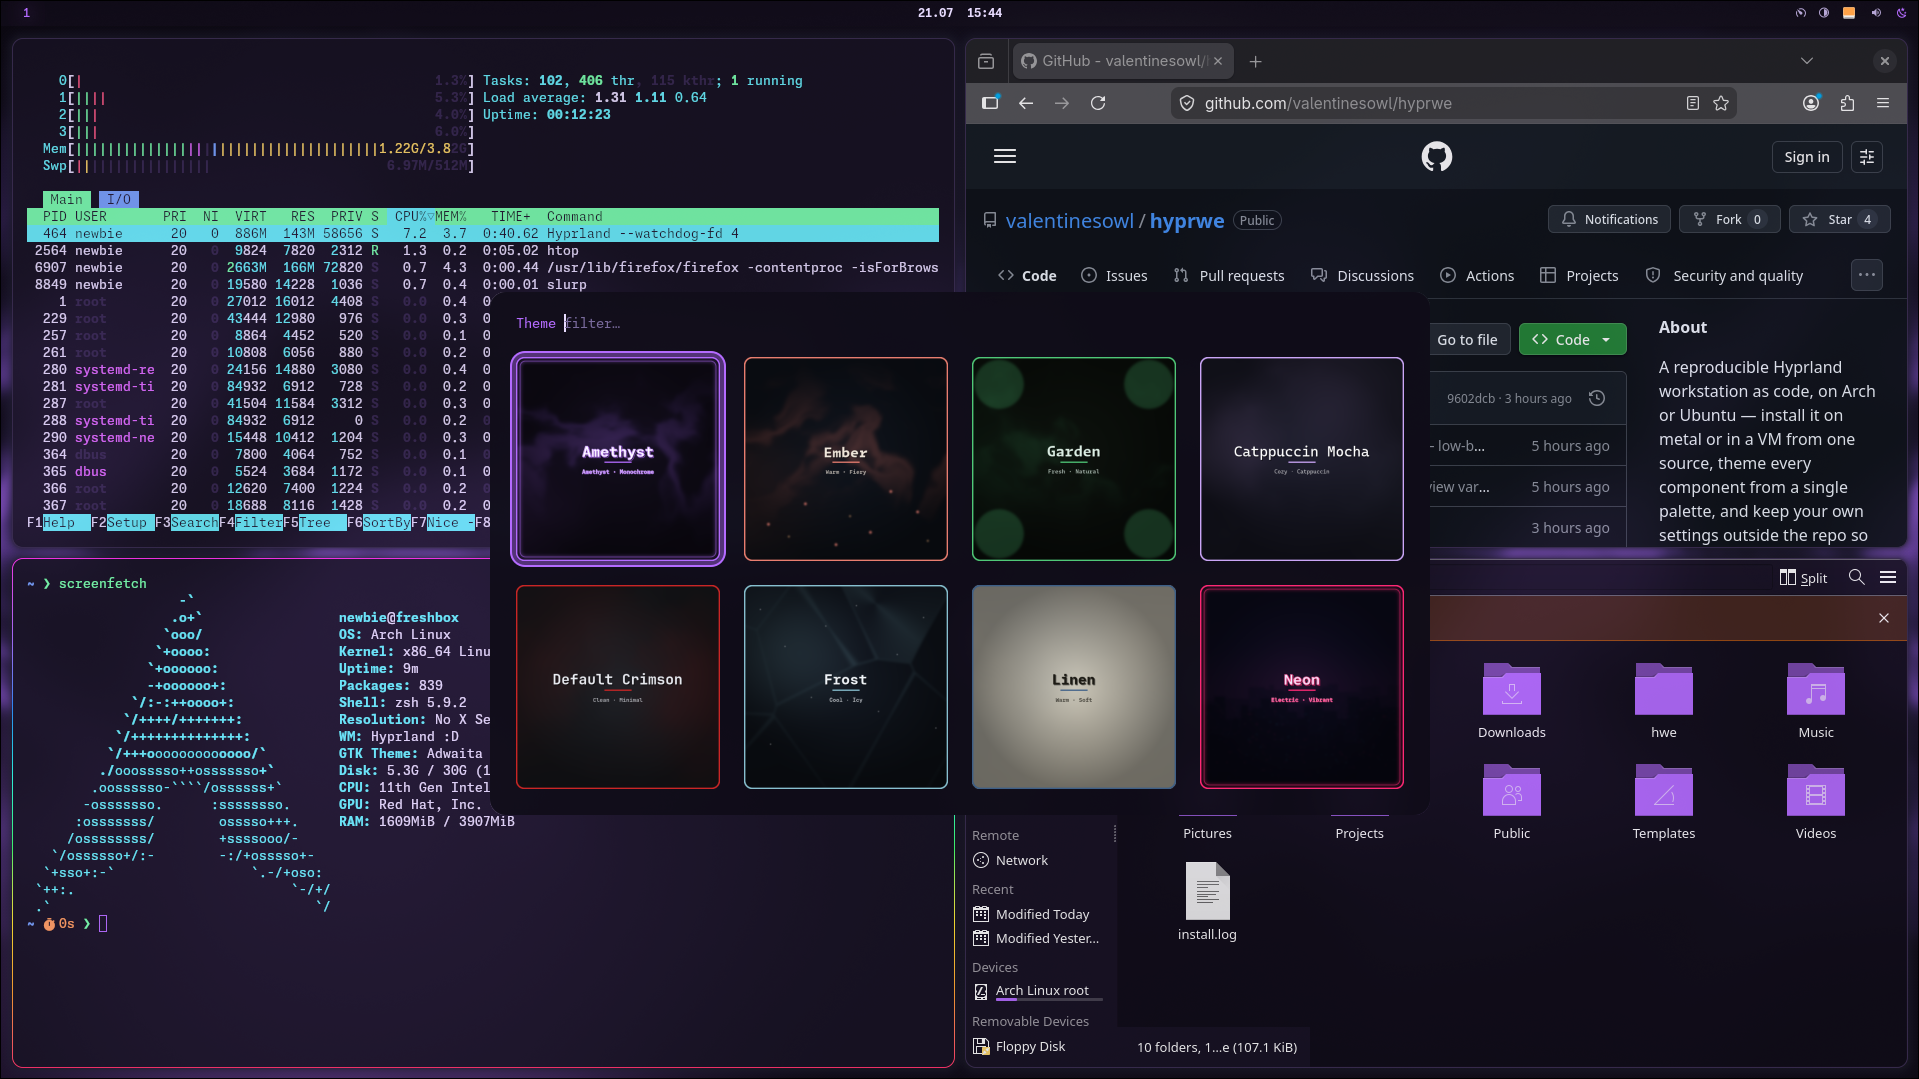
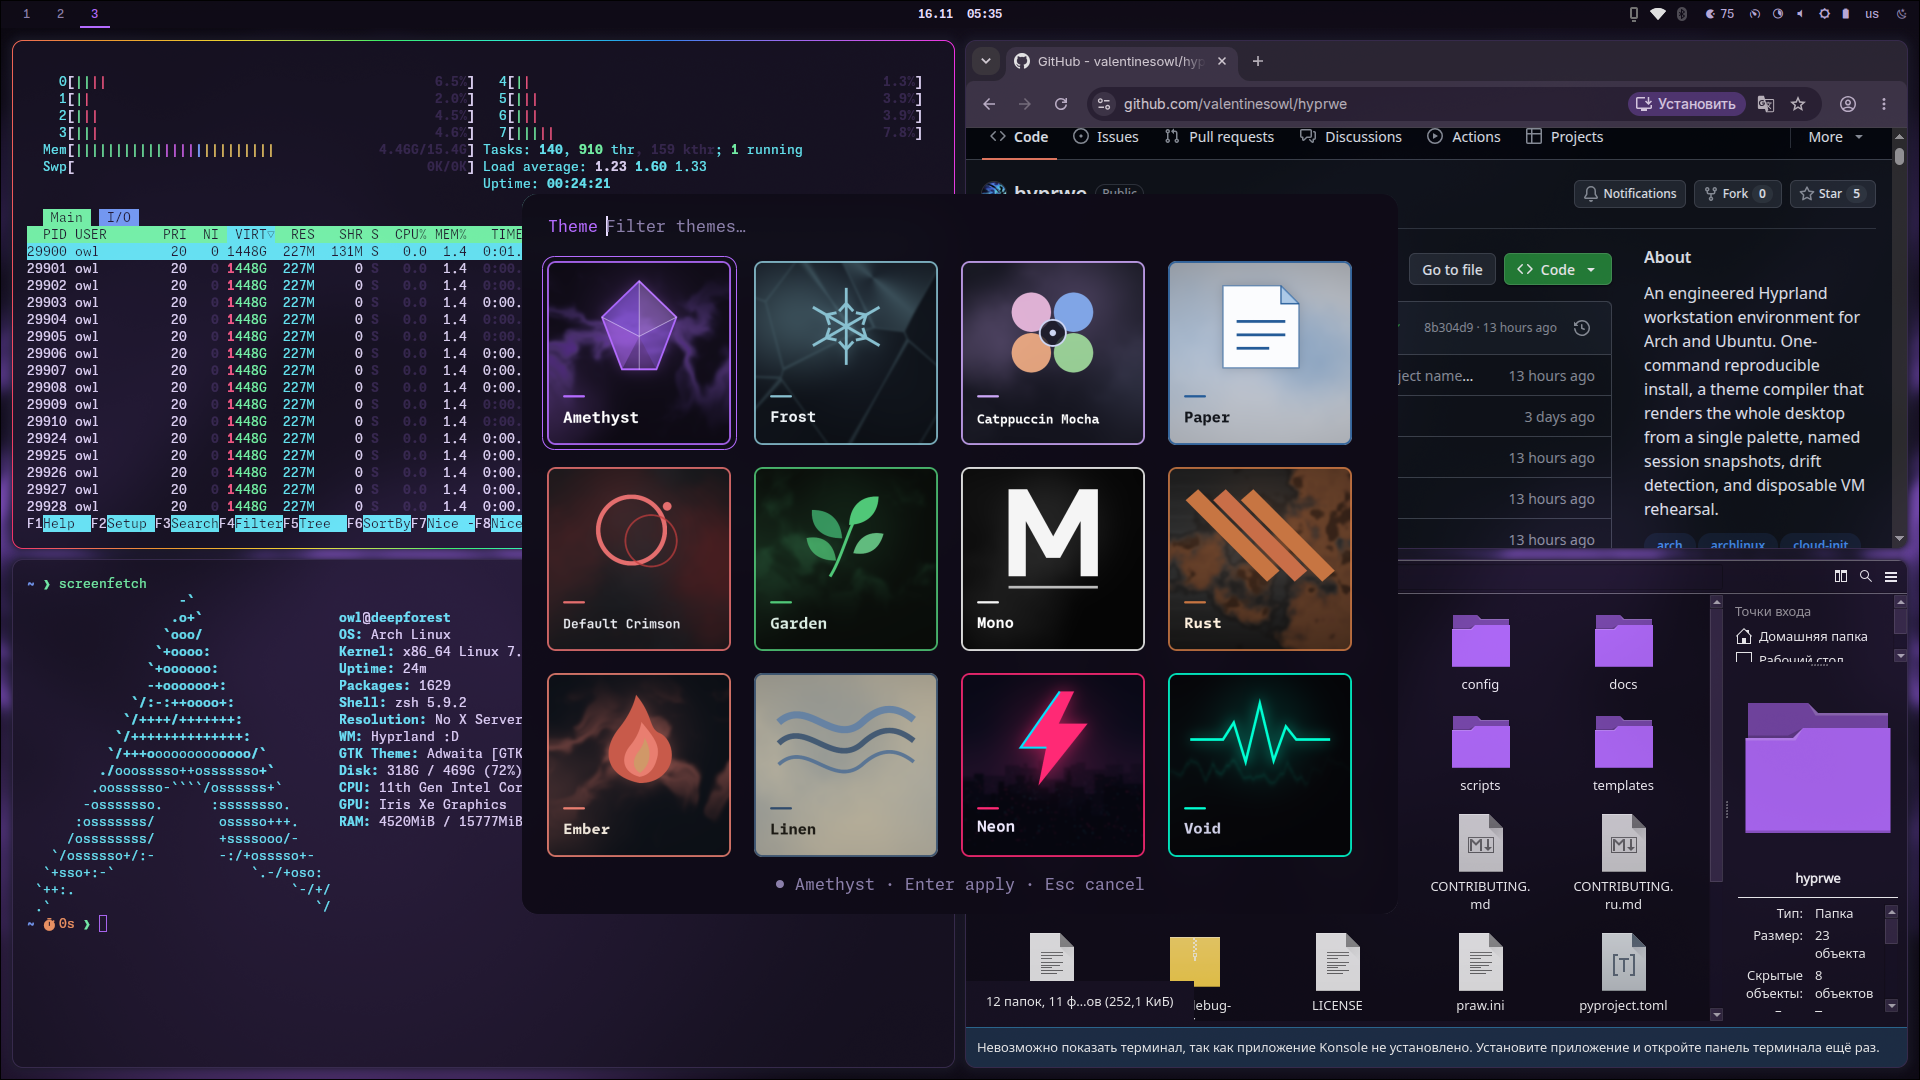
Release 2.1.1

diff --git a/CHANGELOG.md b/CHANGELOG.md
@@ -9,6 +9,28 @@ the three sources cannot drift apart.
 
 ## [Unreleased]
 
+## [2.1.1] — 2026-11-16
+
+### Changed
+
+- **Public branding consistently uses hyprwe.** GitHub release titles and the social preview
+  use the project's public name, and the README hero and social card show the current desktop
+  and theme picker.
+
+### Fixed
+
+- **Fresh Arch VMs fully upgrade the base image before installing bootstrap packages.**
+  Refreshing package databases and selectively installing packages onto an old snapshot could
+  pull OpenSSL 4 beside libraries built for OpenSSL 3, failing cloud-init before HWE cloned or
+  installed the project. Ubuntu keeps its existing cloud-init upgrade path.
+
+### Verification
+
+- Clean Arch x86_64 deployment verified end-to-end through `hwe vm rebuild --uncommitted`:
+  cloud-init completes without errors, no systemd units fail, `hwe doctor` reports no drift,
+  and Hyprland 0.57.2 starts with its monitor, Waybar and Mako after the provisioning reboot.
+- The full `just check` suite passes: 961 Python tests, 303 Bats tests and all linters.
+
 ## [2.1.0] — 2026-11-15
 
 ### Added
@@ -681,7 +703,8 @@ to it only ship in 2.0.0.
   that environment's uninstaller. If the login screen looks foreign after
   `hwe theme sddm`, look at what is in that directory.
 
-[Unreleased]: https://github.com/valentinesowl/hyprwe/compare/v2.1.0...HEAD
+[Unreleased]: https://github.com/valentinesowl/hyprwe/compare/v2.1.1...HEAD
+[2.1.1]: https://github.com/valentinesowl/hyprwe/releases/tag/v2.1.1
 [2.1.0]: https://github.com/valentinesowl/hyprwe/releases/tag/v2.1.0
 [2.0.5]: https://github.com/valentinesowl/hyprwe/releases/tag/v2.0.5
 [2.0.4]: https://github.com/valentinesowl/hyprwe/releases/tag/v2.0.4

diff --git a/README.ru.md b/README.ru.md
@@ -6,7 +6,7 @@
 [![Arch Linux](https://img.shields.io/badge/Arch_Linux-1793D1?logo=archlinux&logoColor=white)](https://archlinux.org)
 [![Ubuntu](https://img.shields.io/badge/Ubuntu_27.04_experimental-E95420?logo=ubuntu&logoColor=white)](https://ubuntu.com)
 [![Hyprland](https://img.shields.io/badge/Hyprland-58E1FF?logo=hyprland&logoColor=black)](https://hyprland.org)
-[![Release](https://img.shields.io/badge/release-v2.1.0-blue)](../../releases/latest)
+[![Release](https://img.shields.io/badge/release-v2.1.1-blue)](../../releases/latest)
 [![CI](https://github.com/valentinesowl/hyprwe/actions/workflows/ci.yml/badge.svg)](../../actions/workflows/ci.yml)
 
 **Готовые dotfiles Hyprland для Arch Linux и Ubuntu: полноценный Wayland-рабочий стол
@@ -506,7 +506,7 @@ just gallery    # пересобрать assets/themes.png из превью
 
 ## Статус
 
-`v2.1.0` — текущий релиз. hyprwe работает только на Lua-конфиге Hyprland 0.57+ и больше не
+`v2.1.1` — текущий релиз. hyprwe работает только на Lua-конфиге Hyprland 0.57+ и больше не
 содержит legacy-конфиги композитора. Эталонная проверенная цель — Arch с Hyprland 0.57.2;
 Ubuntu 27.04 остаётся экспериментальной и не прошла полную релизную VM-матрицу.
 Настройка NVIDIA по-прежнему не проверена на реальном оборудовании.

diff --git a/README.md b/README.md
@@ -6,7 +6,7 @@
 [![Arch Linux](https://img.shields.io/badge/Arch_Linux-1793D1?logo=archlinux&logoColor=white)](https://archlinux.org)
 [![Ubuntu](https://img.shields.io/badge/Ubuntu_27.04_experimental-E95420?logo=ubuntu&logoColor=white)](https://ubuntu.com)
 [![Hyprland](https://img.shields.io/badge/Hyprland-58E1FF?logo=hyprland&logoColor=black)](https://hyprland.org)
-[![Release](https://img.shields.io/badge/release-v2.1.0-blue)](../../releases/latest)
+[![Release](https://img.shields.io/badge/release-v2.1.1-blue)](../../releases/latest)
 [![CI](https://github.com/valentinesowl/hyprwe/actions/workflows/ci.yml/badge.svg)](../../actions/workflows/ci.yml)
 
 **Preconfigured Hyprland dotfiles for Arch Linux and Ubuntu: a complete Wayland desktop
@@ -510,7 +510,7 @@ pipeline. How to contribute — [CONTRIBUTING.md](CONTRIBUTING.md).
 
 ## Status
 
-`v2.1.0` is the current release. hyprwe is Lua-only on Hyprland 0.57+ and no longer ships
+`v2.1.1` is the current release. hyprwe is Lua-only on Hyprland 0.57+ and no longer ships
 legacy compositor configs. Arch with Hyprland 0.57.2 is the verified reference target;
 Ubuntu 27.04 remains experimental and has not passed the full release VM matrix.
 NVIDIA setup is still unverified on real hardware.
